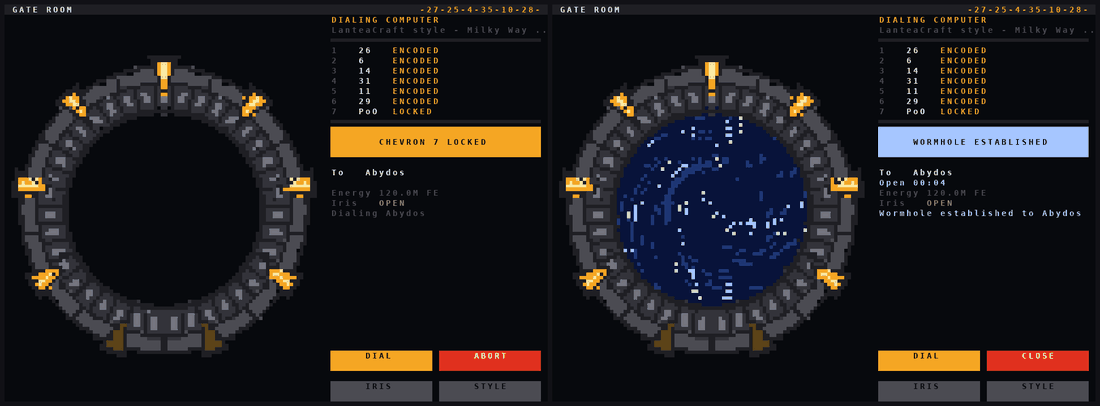
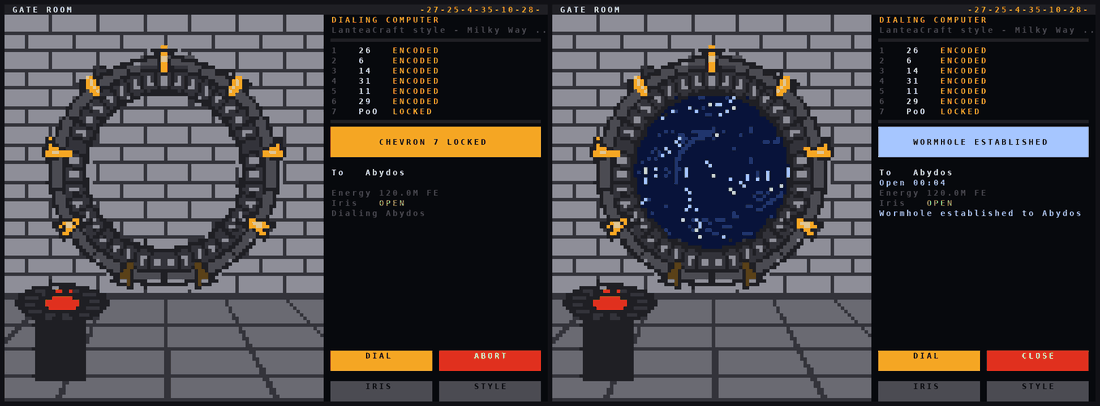
LanteaCraft look: the gate room around the gate
As in the mod: the gate, a little smaller, in a room of light stone
bricks with a slab floor, and LanteaCraft's black DHD with its red dome
standing in front of the gate to the left. A backdrop in sgc.ring like
the Carter Addon Pack scene.

Claude-Session: https://claude.ai/code/session_01YFRZ9xxcfmKzVDCcQsh14d

diff --git a/StargateCommand/README.md b/StargateCommand/README.md
@@ -46,7 +46,7 @@ The look is picked from the gate type and its Stargate Journey variant. You can 
 | Legacy Hybrid | variants with "hybrid" or "legacy" in their name: amber, red and purple chevrons with a blue master chevron |
 | Ori Supergate | variants named with "supergate" or the word "ori" (e.g. `ori_gate`, not "origins"); pick it with STYLE for an SGCraft 2.3 Ori supergate. A ring of 40 separate segments in space, no symbols or chevrons |
 | SGCraft | gates from Greg's SGCraft |
-| LanteaCraft | LanteaCraft gates (and those of LanteaCraft for 1.7.10, wherever the programs drive them): a dark iron ring with small amber chevrons, and a deep blue event horizon flecked with points of light that drift outwards and twinkle |
+| LanteaCraft | LanteaCraft gates (and those of LanteaCraft for 1.7.10, wherever the programs drive them): a dark iron ring with small amber chevrons, and a deep blue event horizon flecked with points of light that drift outwards and twinkle. The gate stands a little smaller in a room of light stone bricks, with the mod's black DHD and its red dome in front |
 | Stargate Network | Chevron Seven's Stargate Network gate: a dark steel-blue ring of letters with blue chevrons |
 | Carter Addon Pack | pick it with STYLE, or a variant named "cap" or "carter". After the Garry's Mod addon: the gate a little smaller, on a stepped grey pedestal with a red carpet, under the sky, with the round orange DHD and its blue dome in front |
 
